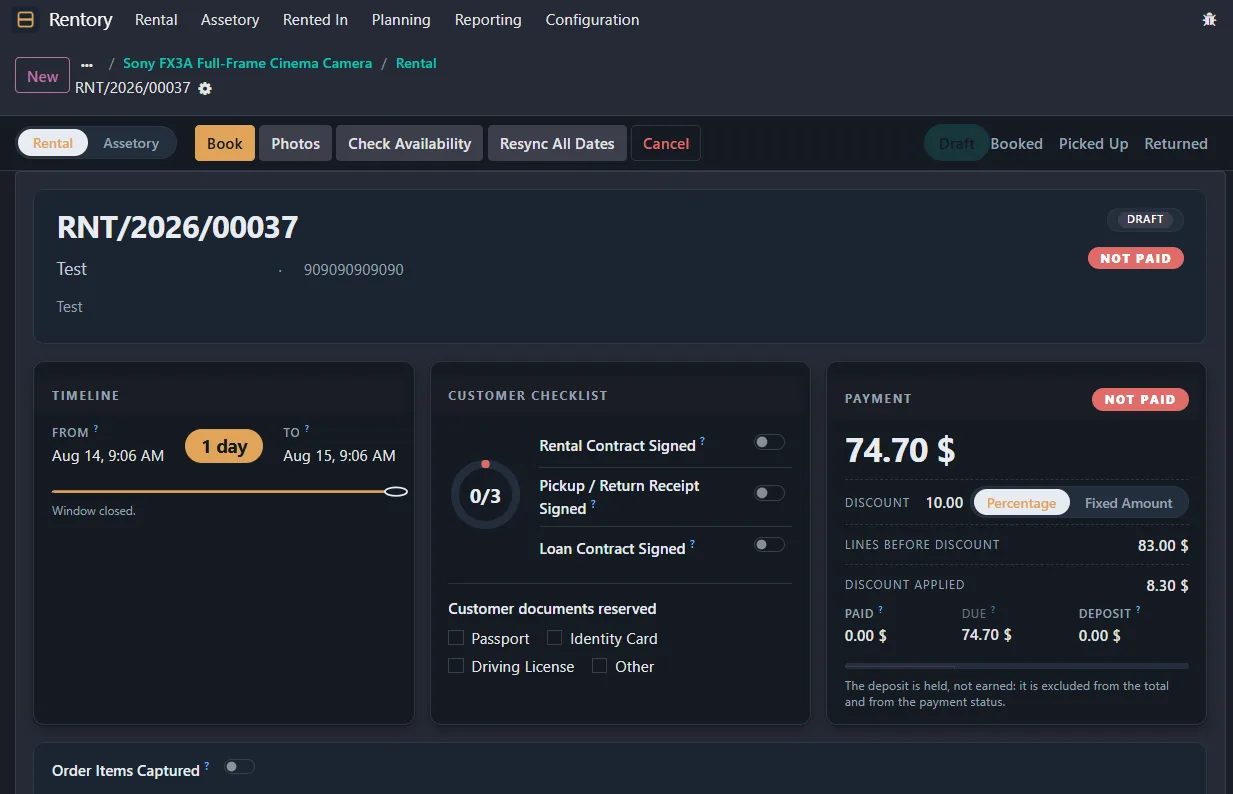
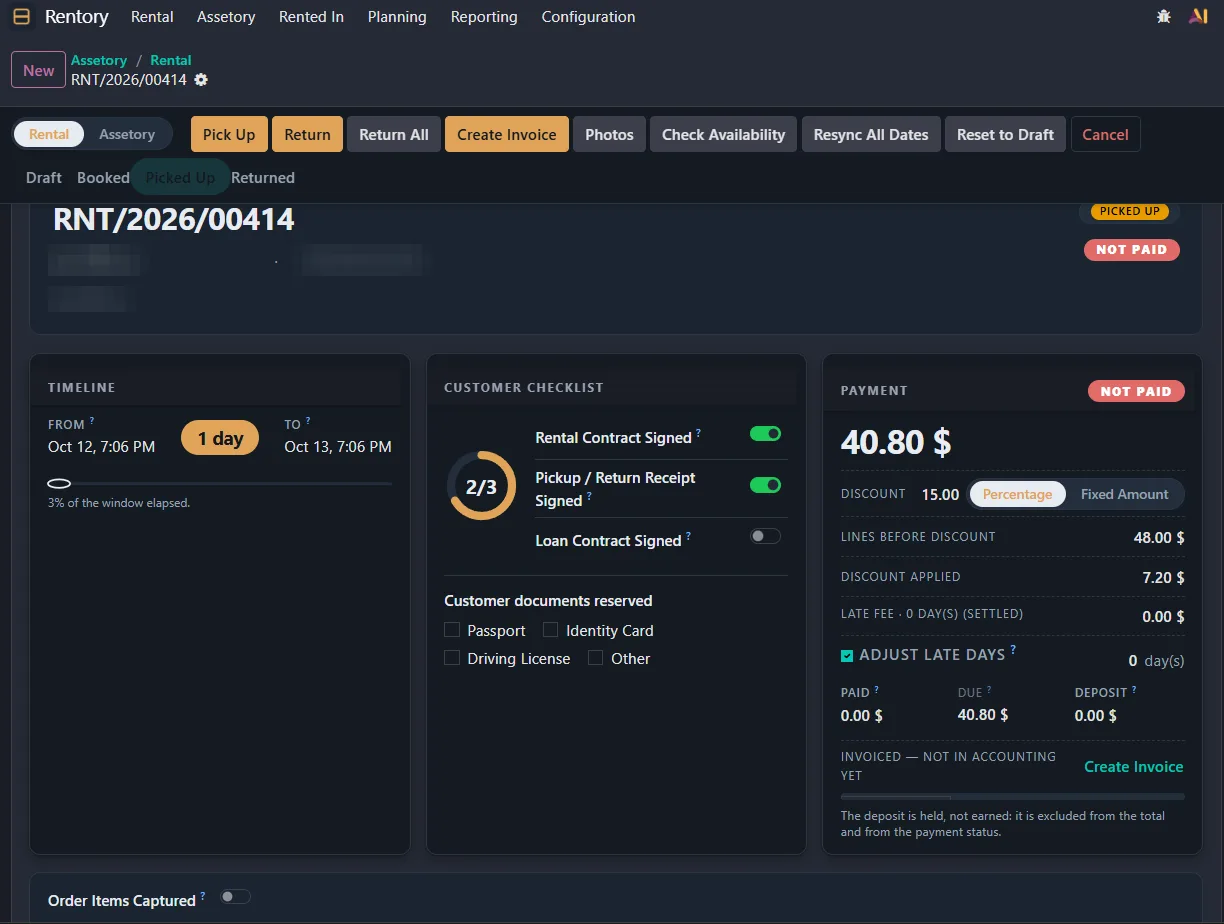
Replace test order screenshot, drop attendance count, update invoice times
- Real rental order screenshot with customer details blurred
- Removed the 9,700+ stat and hid the record counter in the attendance shot
- Invoices and vouchers: about an hour each before, 2 minutes now
- Hero stats now a 3-column row

diff --git a/index.html b/index.html
@@ -61,7 +61,6 @@
       <div class="stat"><b>0</b><span data-i18n="s1t">customer requests lost since launch</span></div>
       <div class="stat"><b>50</b><span data-i18n="s2t">employees working on the system</span></div>
       <div class="stat"><b>800+</b><span data-i18n="s3t">equipment items tracked by serial</span></div>
-      <div class="stat"><b>9,700+</b><span data-i18n="s4t">attendance check-ins logged automatically</span></div>
     </div>
   </div>
 
@@ -110,7 +109,7 @@
           <div class="result" data-i18n="r_res">Order mistakes dropped from around 10 to 1 or 2, and critical incidents from about 5 a week to 1 or none. No customer request has been lost since it went live.</div>
         </div>
         <div class="shots">
-          <a href="img/rentory-order.webp" target="_blank"><img src="img/rentory-order.webp" alt="Rentory rental order with timeline, customer checklist and payment" loading="lazy" width="1233" height="794"></a>
+          <a href="img/rentory-order.webp" target="_blank"><img src="img/rentory-order.webp" alt="Rentory rental order with timeline, customer checklist and payment" loading="lazy" width="1224" height="924"></a>
           <div class="shots two">
             <a href="img/rentory-serials.webp" target="_blank"><img src="img/rentory-serials.webp" alt="Equipment record with serials, cost and rental revenue" loading="lazy" width="1255" height="817"></a>
             <a href="img/rentory-assets.webp" target="_blank"><img src="img/rentory-assets.webp" alt="Assetory equipment catalog with availability" loading="lazy" width="1400" height="787"></a>
@@ -125,11 +124,11 @@
           <h3 data-i18n="i_h">Invoices and vouchers</h3>
           <dl class="ba">
             <dt class="b" data-i18n="before">Before</dt>
-            <dd class="before" data-i18n="i_b">Custom invoices were put together by hand, about 2 hours each. Receipt and payment vouchers were written out separately from the accounting.</dd>
+            <dd class="before" data-i18n="i_b">Custom invoices and receipt or payment vouchers were put together by hand, about an hour each, separately from the accounting.</dd>
             <dt class="a" data-i18n="after">After</dt>
             <dd class="after" data-i18n="i_a">Arabic invoices print straight from the rental order in the company's design. Receipt and payment vouchers print from any journal entry, with the amount written out in words in correct Arabic grammar for each currency, on A5 paper to match the existing stationery.</dd>
           </dl>
-          <div class="result" data-i18n="i_res">A custom invoice now takes 5 minutes instead of 2 hours.</div>
+          <div class="result" data-i18n="i_res">Each invoice or voucher now takes 2 minutes instead of an hour.</div>
         </div>
         <div class="shots docs">
           <a href="img/invoice.webp" target="_blank"><img src="img/invoice.webp" alt="Arabic rental invoice generated from Odoo" loading="lazy" width="730" height="1015"></a>
@@ -147,7 +146,7 @@
             <dt class="a" data-i18n="after">After</dt>
             <dd class="after" data-i18n="a_a">Check in happens in Odoo and is verified with a GPS geofence around the workplace. Each employee has their own shift. Anyone on site who hasn't checked in, or is still checked in after their shift, gets a reminder every 30 minutes. Overtime is requested with a reason, approved by a manager, and written into attendance automatically.</dd>
           </dl>
-          <div class="result" data-i18n="a_res">9,700+ presence checks logged automatically so far. Hours come from records, not chat messages.</div>
+          <div class="result" data-i18n="a_res">Working hours now come from verified records, not chat messages.</div>
         </div>
         <div class="shots">
           <a href="img/attendance.webp" target="_blank"><img src="img/attendance.webp" alt="Presence signals log with GPS matching (names hidden)" loading="lazy" width="1400" height="514"></a>
@@ -293,7 +292,7 @@ window.AR = {
   avail:"متاح للعملاء في الخليج وحول العالم، بالعربية والإنجليزية.",
   cap_name:"قصي الحافظ", cap_role:"مطوّر أنظمة أعمال، سكون لتأجير المعدات",
   s1t:"طلبات عملاء ضاعت منذ الإطلاق", s2t:"موظفاً يعملون على النظام",
-  s3t:"قطعة معدات مُتتبَّعة بالرقم التسلسلي", s4t:"تسجيل حضور مُسجَّل تلقائياً",
+  s3t:"قطعة معدات مُتتبَّعة بالرقم التسلسلي",
   pain_h:"مشاكل حللتها بالفعل",
   pain_sub:"كل واحدة من هذه كانت مشكلة حقيقية في الشركة التي أعمل بها، وكلها اليوم يتولاها النظام الذي بنيته.",
   pain1:"الدوام يُسجَّل في مجموعة واتساب، وأحدهم ينسخ الأوقات يدوياً.",
@@ -313,14 +312,14 @@ window.AR = {
   r_cap:"طلب تأجير، والأرقام التسلسلية لكاميرا مع تكلفتها وإيرادها، وكتالوج المعدات.",
   i_kind:"مستندات محاسبية · بالعربية",
   i_h:"الفواتير والسندات",
-  i_b:"الفواتير المخصصة كانت تُجهَّز يدوياً، نحو ساعتين لكل واحدة. وسندات القبض والدفع كانت تُكتب بمعزل عن المحاسبة.",
+  i_b:"الفواتير المخصصة وسندات القبض والدفع كانت تُجهَّز يدوياً، نحو ساعة لكل واحدة، بمعزل عن المحاسبة.",
   i_a:"الفواتير العربية تُطبع مباشرة من طلب التأجير بتصميم الشركة. وسندات القبض والدفع تُطبع من أي قيد يومية، مع كتابة المبلغ بالحروف بقواعد عربية صحيحة لكل عملة، وعلى ورق A5 ليطابق القرطاسية الحالية.",
-  i_res:"الفاتورة المخصصة تأخذ الآن 5 دقائق بدلاً من ساعتين.",
+  i_res:"كل فاتورة أو سند يأخذ الآن دقيقتين بدلاً من ساعة.",
   a_kind:"إضافة لتطبيق الحضور في Odoo · موارد بشرية",
   a_h:"حارس الدوام (Attendance Shift Guard)",
   a_b:"كان الموظفون يكتبون أوقات دخولهم وخروجهم في مجموعة واتساب، وكان على أحدهم قراءة الرسائل وتفريغ الساعات.",
   a_a:"تسجيل الحضور يتم في Odoo ويُتحقق منه بسياج جغرافي GPS حول مكان العمل. لكل موظف دوامه الخاص. ومن يكون في الموقع ولم يسجّل دخوله، أو بقي مسجّلاً بعد انتهاء دوامه، يصله تذكير كل 30 دقيقة. والعمل الإضافي يُطلب مع سبب، ويوافق عليه المدير، ثم يُكتب في سجل الحضور تلقائياً.",
-  a_res:"أكثر من 9,700 إشارة حضور سُجّلت تلقائياً حتى الآن. الساعات تأتي من السجلات، لا من رسائل المحادثة.",
+  a_res:"ساعات العمل تأتي الآن من سجلات موثّقة، لا من رسائل المحادثة.",
   a_cap:"سجل الحضور مع المسافة عن مكان العمل عبر GPS. أسماء الموظفين مخفية.",
   d_h:"خصومات العملاء",
   d_b:"كان على الموظفين تذكّر خصم كل عميل وكتابته على كل سطر.",

diff --git a/style.css b/style.css
@@ -93,13 +93,13 @@ html[lang="ar"] h1,html[lang="ar"] h2,html[lang="ar"] .mod h3,html[lang="ar"] .b
 .photo figcaption b{display:block;font-size:1.05rem}
 @media (max-width:760px){.hero-grid{grid-template-columns:1fr}.photo{justify-self:start;max-width:300px}}
 
-.stats{display:grid;grid-template-columns:repeat(4,1fr);gap:1px;background:var(--line);border:1px solid var(--line);border-radius:4px;overflow:hidden;margin-top:3.5rem}
+.stats{display:grid;grid-template-columns:repeat(3,1fr);gap:1px;background:var(--line);border:1px solid var(--line);border-radius:4px;overflow:hidden;margin-top:3.5rem}
 .stat{background:#060606;padding:1.2rem 1.1rem;transition:background-color .3s}
 .stat:hover{background:#111}
 .stat:hover b{background-position:100% 0}
 .stat b{display:block;font:700 clamp(1.5rem,2.8vw,2.1rem)/1.1 var(--helv);letter-spacing:-.03em}
 .stat span{display:block;color:var(--muted);font-size:.9rem;margin-top:.35rem}
-@media (max-width:760px){.stats{grid-template-columns:repeat(2,1fr)}}
+@media (max-width:620px){.stats{grid-template-columns:1fr}}
 
 /* sections */
 section{padding:4.5rem 0;border-top:1px solid var(--line)}
